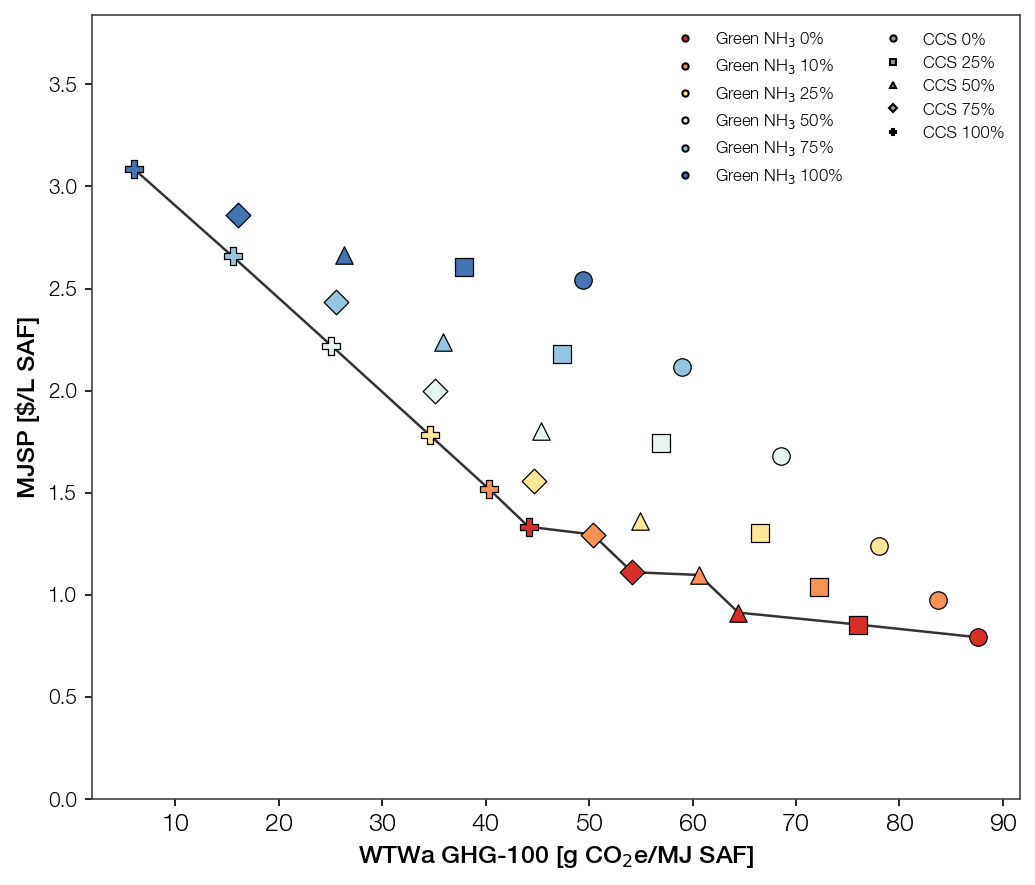
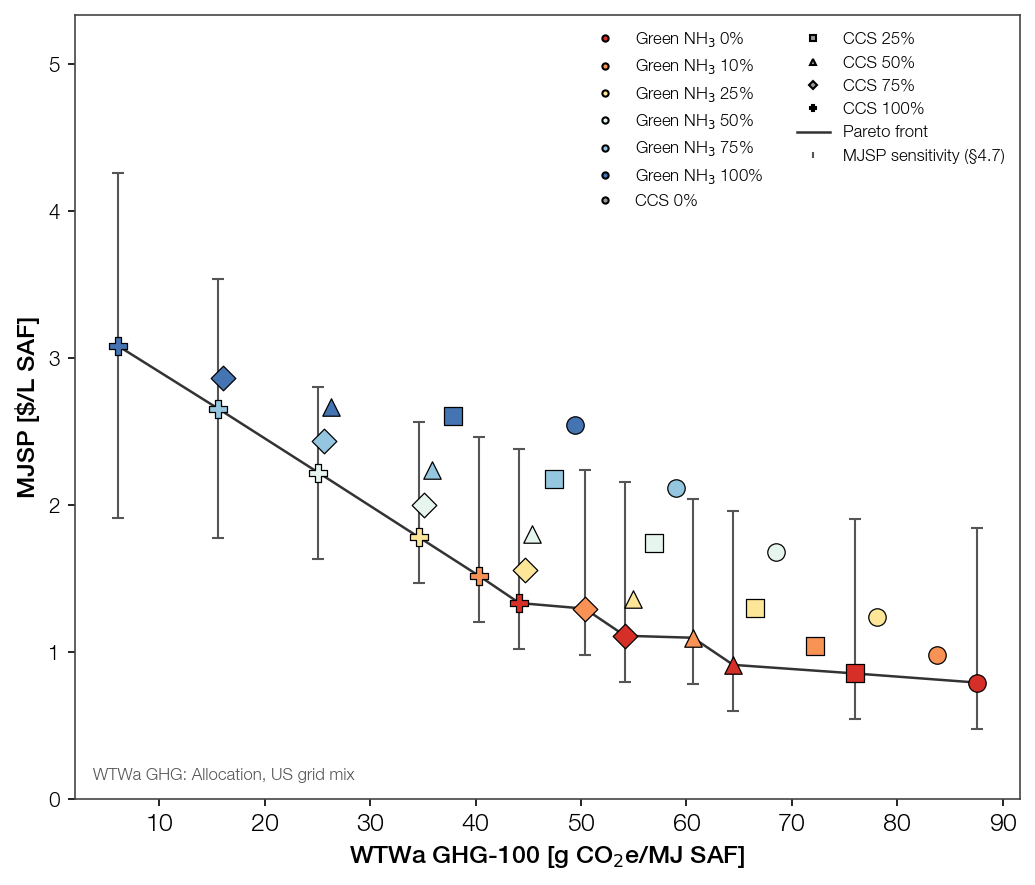
Add MJSP sensitivity error bars to Pareto frontier points
Apply _Tornado_Sensitivity.md §4.7 conditions to each frontier (Mix) point via
tea_tornado constants: gray-H2 swing on grey share (1-a), NH3 on share a, T&S
where CCS>0; bar = min..max envelope of one-at-a-time swings. Annotate GHG basis
(Allocation, US grid mix) on the plot and in §2.

Claude-Session: https://claude.ai/code/session_01CaRxY6dB1J1eEsJrcJqdte

diff --git a/tea_pareto_front.py b/tea_pareto_front.py
@@ -58,6 +58,67 @@ def mjsp(tea: TEA, a: float, c: float) -> float:
     return da['cost'][-1]['MJSP']   # 'Mix' row
 
 
+# Tornado sensitivity conditions (_Tornado_Sensitivity.md §1) reused as the single
+# source of truth; adapted here to Mix frontier points (partial grey + partial ammonia).
+from tea_tornado import (BIOMASS_PM, H2_RANGE, ELEC_F, COPROD_F, CAPEX_PM,
+                         CF_HOURS, TS_RANGE, TS_BASE, AMM_FEED_USD_L, AMM_P_BASE,
+                         AMM_PRICE, LB2KG, raw_costs)
+
+
+def mix_row(tea: TEA, a: float, c: float) -> tuple[float, pd.Series, float]:
+    """(MJSP, df_mjsp row, annual SAF) for a Mix point; a=0 -> grey Base row."""
+    if a == 0:
+        dfm, _, saf, _, _, da, _ = tea.economic_analysis(FS, FA, ['Base'], ccs_portion=c)
+        return da['cost'][0]['MJSP'], dfm.iloc[0], saf
+    dfm, _, saf, _, _, da, _ = tea.economic_analysis(FS, FA, ['Base'], ccs_portion=c, ammonia_portion=a)
+    return da['cost'][-1]['MJSP'], dfm.iloc[-1], saf
+
+
+def rerun_mix(a: float, c: float, **knobs) -> float:
+    """Mix MJSP with scalar knob(s) on a fresh TEA (T&S basis kept at $10/t)."""
+    t = TEA()
+    t.co2_ts_usd_per_ton = TS_BASE
+    for k, v in knobs.items():
+        setattr(t, k, v)
+    if 'elec_price_usd_per_mmbtu' in knobs:
+        t.product_price_work['ELC-'] = t.elec_price_usd_per_mmbtu
+    return mix_row(t, a, c)[0]
+
+
+def mjsp_error(tea: TEA, a: float, c: float, h2_cost: float, h2_rate: float,
+               bio_cost: float, op: float) -> tuple[float, float, float]:
+    """(base, min, max) MJSP over the tornado drivers applicable to a Mix point.
+    Envelope of one-at-a-time swings; grey-H2 scales with (1-a), ammonia with a,
+    T&S/electricity/co-product/capacity re-run, biomass/CAPEX linear."""
+    base, row, saf = mix_row(tea, a, c)
+    ends = [base]
+    d_bio = BIOMASS_PM * bio_cost * op / saf                     # biomass +-50% (all)
+    ends += [base - d_bio, base + d_bio]
+    if a < 1:                                                    # gray H2 on the grey share
+        p_kg = (h2_cost / h2_rate) / LB2KG
+        h2_term = h2_cost * (1 - a) * op / saf
+        lo, hi = H2_RANGE
+        ends += [base + (lo / p_kg - 1.) * h2_term, base + (hi / p_kg - 1.) * h2_term]
+    if a > 0:                                                    # ammonia price on the ammonia share
+        lo, hi = AMM_PRICE
+        ends += [base + a * AMM_FEED_USD_L * (lo / AMM_P_BASE - 1.),
+                 base + a * AMM_FEED_USD_L * (hi / AMM_P_BASE - 1.)]
+    ends += [base - CAPEX_PM * row['capital investment'],        # CAPEX +-30% (Mix cap inv, incl CCS)
+             base + CAPEX_PM * row['capital investment']]
+    if c > 0:                                                    # CO2 T&S 4-45 $/t (CCS only)
+        lo, hi = TS_RANGE
+        ends += [rerun_mix(a, c, co2_ts_usd_per_ton=lo), rerun_mix(a, c, co2_ts_usd_per_ton=hi)]
+    e_lo, e_hi = ELEC_F                                          # electricity +-30%
+    ends += [rerun_mix(a, c, elec_price_usd_per_mmbtu=19.05 * e_lo),
+             rerun_mix(a, c, elec_price_usd_per_mmbtu=19.05 * e_hi)]
+    c_lo, c_hi = COPROD_F                                        # co-product +-20%
+    ends += [rerun_mix(a, c, product_price_stream={'316GAS': 0.75757 * c_lo, '326SAF': 0, '336DIES': 0.6 * c_lo}),
+             rerun_mix(a, c, product_price_stream={'316GAS': 0.75757 * c_hi, '326SAF': 0, '336DIES': 0.6 * c_hi})]
+    h85, h91 = CF_HOURS                                          # capacity 85% / 91%
+    ends += [rerun_mix(a, c, operation_hr=h85), rerun_mix(a, c, operation_hr=h91)]
+    return base, min(ends), max(ends)
+
+
 def pareto_mask(pts: pd.DataFrame) -> pd.Series:
     """Non-dominated set minimizing both ghg and mjsp (O(n^2), n=30)."""
     dominated = pd.Series(False, index=pts.index)
@@ -116,6 +177,17 @@ def main() -> None:
     front = df[df['pareto']].sort_values('ghg')
     ax.plot(front['ghg'], front['mjsp'], '-', color='#333333', lw=1.2, zorder=2, label='Pareto front')
 
+    # MJSP error bars on each frontier point (tornado-driver envelope) --------
+    h2_cost, h2_rate, bio_cost = raw_costs(tea, FA)
+    op = tea.operation_hr
+    err = [mjsp_error(tea, r['ammonia_portion'], r['ccs'], h2_cost, h2_rate, bio_cost, op)
+           for _, r in front.iterrows()]
+    e_base = [e[0] for e in err]
+    yerr = [[b - lo for b, lo, _ in err], [hi - b for b, _, hi in err]]
+    ax.errorbar(front['ghg'], e_base, yerr=yerr, fmt='none', ecolor='#555555',
+                elinewidth=1.0, capsize=3, zorder=1, label='MJSP sensitivity (§4.7)')
+    front = front.assign(mjsp_lo=[e[1] for e in err], mjsp_hi=[e[2] for e in err])
+
     ax.set_xlabel('WTWa GHG-100 [g CO$_2$e/MJ SAF]')
     ax.set_ylabel('MJSP [$/L SAF]')
     # legend states H2 share from the green-ammonia cracker (= ammonia_portion), not raw scale
@@ -123,7 +195,13 @@ def main() -> None:
                         label=f'Green NH$_3$ {s / MAIN_SCALE * 100:g}%') for s in AMM_SCALES]
     ccs_h = [plt.Line2D([], [], marker=ccs_markers[c], ls='', color='0.6', mec='black',
                         label=f'CCS {int(c * 100)}%') for c in CCS_RATES]
-    ax.legend(handles=amm_h + ccs_h, ncol=2, loc='best')
+    front_h = plt.Line2D([], [], color='#333333', lw=1.2, label='Pareto front')
+    err_h = plt.Line2D([], [], color='#555555', lw=1.0, marker='|', ls='',
+                       label='MJSP sensitivity (§4.7)')
+    ax.legend(handles=amm_h + ccs_h + [front_h, err_h], ncol=2, loc='best')
+    # GHG basis stated on-plot to remove ambiguity (US grid mix, Allocation)
+    ax.text(0.02, 0.02, 'WTWa GHG: Allocation, US grid mix', transform=ax.transAxes,
+            ha='left', va='bottom', fontsize=8, color='#555555')
     ax.set_ylim(0, ax.get_ylim()[1] * 1.2)
 
     os.makedirs('Figure', exist_ok=True)
@@ -147,8 +225,9 @@ def main() -> None:
 
     pd.set_option('display.width', 200, 'display.max_rows', 40)
     print(df.round(3).to_string(index=False))
-    print('\nPareto front (min MJSP, min GHG) with CO2 abatement cost vs grey base:')
-    print(front[['amm_scale', 'ccs', 'ghg', 'mjsp', 'abatement']].round(2).to_string(index=False))
+    print('\nPareto front with CO2 abatement cost + MJSP sensitivity range (§4.7):')
+    print(front[['amm_scale', 'ccs', 'ghg', 'mjsp', 'mjsp_lo', 'mjsp_hi', 'abatement']].round(2).to_string(index=False))
+    front.round(4).to_excel(os.path.join('Result', 'pareto_front_sensitivity.xlsx'), index=False)
 
     # self-checks: base positive; GHG base matches report ~87.57; more CCS lowers GHG at fixed NH3;
     # more NH3 lowers GHG at fixed CCS; front is non-empty and trades off (ghg up <-> mjsp down).

diff --git a/_Pareto_Front.md b/_Pareto_Front.md
@@ -22,7 +22,9 @@ Script: `tea_pareto_front.py` → `Figure/pareto_front.png`, `Result/pareto_fron
 - **MJSP** — `funs.TEA.economic_analysis` at `Scale0100`. For x0, the grey `Base` row; for
   x1–x10, the `Mix` row (partial grey/ammonia H₂ **with CCS applied at the same portion**).
   No engine change. CO₂ T&S = **$10/tCO₂** (current basis, commit 95db93c).
-- **GHG** — `funs_lca.get_WTWa_pyrolysis`, GHG-100, Allocation. CCS uses the per-portion LCA
+- **GHG** — `funs_lca.get_WTWa_pyrolysis`, GHG-100, **Allocation method, US grid mix**
+  (`Pyrolysis_551_LCA_Allocation.xlsx`, *not* the `_KRmix` / Displacement variants; base
+  87.57 g/MJ = the US-Allocation value, vs 100.83 for KR-Allocation). CCS uses the per-portion LCA
   sheets (`Base`, `CCS025/050/075/100` — no interpolation). The ammonia lever is applied as an
   additive delta from base:
   `GHG(a,c) = ghg_ccs[c] − a·(ghg_base − ghg_ammonia)`.
@@ -107,7 +109,61 @@ grey H₂. The **bottom-right hot zone** (high NH₃, low CCS) is the most expen
 green ammonia while capturing little process CO₂ pays a lot per tonne. Cheapest tonnes lie
 bottom-left (grey + shallow CCS); cost climbs rightward far faster than upward.
 
+## 6. MJSP sensitivity on the frontier
+
+Error bars on each Pareto-front point apply the §4.7 tornado conditions
+(`_Tornado_Sensitivity.md`) to the **Mix** points, reusing `tea_tornado.py` constants:
+biomass ±50%, gray H₂ 1–4 $/kg (on the grey share 1−a), green NH₃ 0.12–0.45 $/lb (on the
+ammonia share a), CAPEX ±30%, CO₂ T&S 4–45 $/tCO₂ (CCS points), electricity ±30%,
+co-product ±20%, capacity 85/91%. Bar = envelope (min…max) of the one-at-a-time swings.
+Table `Result/pareto_front_sensitivity.xlsx`.
+
+| Green NH₃ | CCS | MJSP [$/L] | MJSP low | MJSP high |
+|-----------|-----|------------|----------|-----------|
+| 0%   | 0%   | 0.793 | 0.48 | 1.84 |
+| 0%   | 25%  | 0.855 | 0.54 | 1.90 |
+| 0%   | 50%  | 0.913 | 0.60 | 1.96 |
+| 1%*  | 50%  | 1.098 | 0.78 | 2.04 |
+| 0%   | 75%  | 1.111 | 0.80 | 2.16 |
+| 10%  | 75%  | 1.296 | 0.98 | 2.24 |
+| 0%   | 100% | 1.334 | 1.02 | 2.38 |
+| 10%  | 100% | 1.518 | 1.21 | 2.46 |
+| 25%  | 100% | 1.782 | 1.47 | 2.57 |
+| 50%  | 100% | 2.221 | 1.64 | 2.81 |
+| 75%  | 100% | 2.657 | 1.78 | 3.54 |
+| 100% | 100% | 3.085 | 1.91 | 4.26 |
+
+(*10% NH₃ share, rounded.)
+
+- **Bars are wide and upward-skewed**, driven by the hydrogen price (gray H₂ 1–4 $/kg or
+  green NH₃ 0.12–0.45 $/lb) — the same conclusion as `_Tornado_Sensitivity.md`. Every point
+  can reach ~1.8–2.4 $/L at the high-H₂-price end; the ammonia-heavy points widen most
+  (full-NH₃+CCS100 spans 1.9–4.3 $/L).
+- **Frontier ordering is not robust to H₂ price**: the sensitivity ranges of adjacent points
+  overlap heavily, so at unfavourable H₂/NH₃ prices the cost gap between grey+CCS and green-NH₃
+  routes narrows or collapses. The mean-price front is the central estimate, not a guarantee.
+- The low end of each bar (cheap H₂, high capacity) keeps the trade-off shape but shifts the
+  whole front down ~0.3 $/L.
+
 ## Log history
+
+### 2026-09-28 (update 4)
+
+**Discussion**
+- Added MJSP sensitivity (§4.7 tornado conditions) as error bars on each Pareto-front point,
+  reusing `tea_tornado.py` constants/`raw_costs`. Adapted to Mix points: gray-H₂ swing scales
+  with grey share (1−a), ammonia swing with share a, CO₂ T&S only where CCS>0; bar = min…max
+  envelope of one-at-a-time swings.
+- Clarified GHG basis of this plot: **Allocation method, US grid mix** (not KRmix, not
+  Displacement) — stated in §2 and annotated on the figure.
+
+**Code**
+- `tea_pareto_front.py` — added `mix_row`/`rerun_mix`/`mjsp_error`; error bars + on-plot GHG-basis
+  note; writes `Result/pareto_front_sensitivity.xlsx`. ~100 `economic_analysis` re-runs → ~10 min.
+
+**Open**
+- Sensitivity is MJSP-only (economic). GHG-side method spread (Allocation↔Displacement, US↔KR)
+  not shown as x-error; it is a discrete methodological choice, noted in §2.
 
 ### 2026-09-28 (update 3)
 
